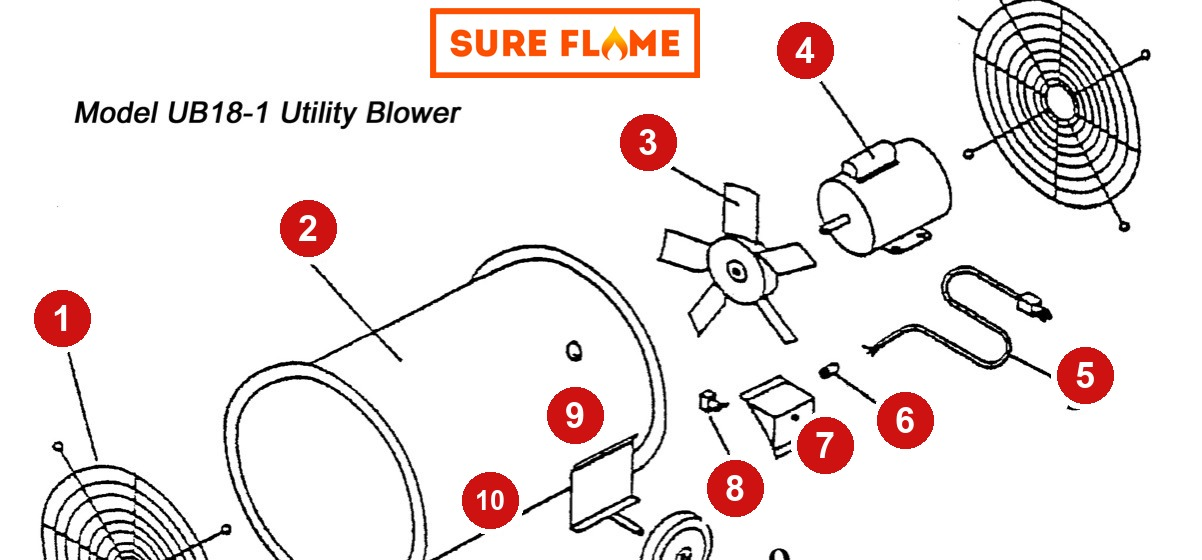
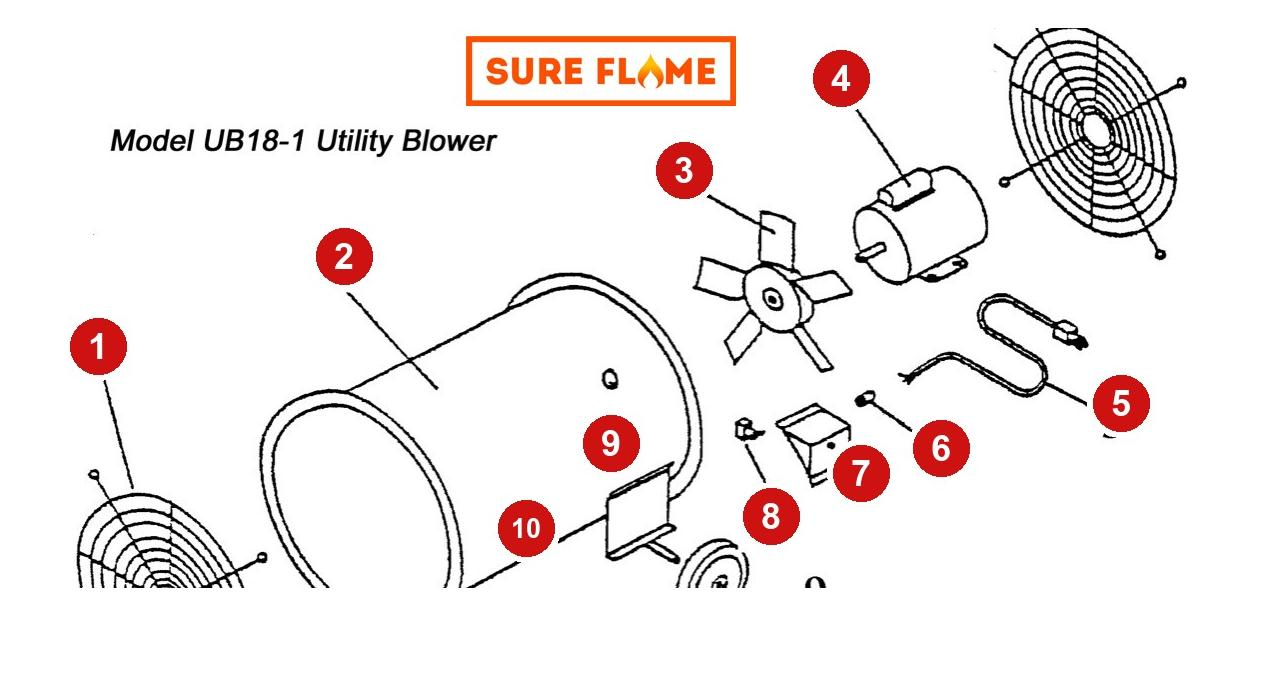
Sure Flame parts: pad FN20 & UB18 diagrams (stopgap for tight bottom crop)
The FN20 and UB18 parts diagrams were tight-cropped at the bottom (source
images cut off the lower grille / caster). Added white padding (matched bg,
bottom-weighted) so the drawings aren't jammed against the card edge and read
as intentional margin. Callouts all remain visible. Bumped ?v=3 -> ?v=4.

Not a true fix — the source art is still cropped. Full-size FN20/UB18 parts
drawings are on the Mike list; drop-in swap when they arrive.

Changed region(s): [[0.0308, 0.0, 0.9542, 1.0], [0.0308, 0.4554, 0.1231, 0.6375]]

diff --git a/project/website/sure-flame-ub18-parts.html b/project/website/sure-flame-ub18-parts.html
@@ -33,7 +33,7 @@ window.MODEL = {
   hero:A+"/sf-heaters/ub18.jpg", heroContain:true,
   crumb:[["Home","index.html"],["Parts","parts.html"],["Sure Flame Factory Parts","sure-flame-parts.html"]],
   groups:[
-    { id:"ub18", name:"UB18-1 Parts", diagram:A+"/sf-diagrams/ub18.jpg?v=3", cap:"UB18-1 Parts", parts:[
+    { id:"ub18", name:"UB18-1 Parts", diagram:A+"/sf-diagrams/ub18.jpg?v=4", cap:"UB18-1 Parts", parts:[
       { no:1, pn:"SFP FS6611", d:"Fan Guard", price:null },
       { no:2, pn:"UB-1708", d:"Housing Assembly w/o Wheels", price:null },
       { no:3, pn:"SFP FS6609", d:"Fan blade", price:null },

diff --git a/project/website/sure-flame-fn20-parts.html b/project/website/sure-flame-fn20-parts.html
@@ -33,7 +33,7 @@ window.MODEL = {
   hero:A+"/sf-heaters/fn20.jpg", heroContain:true,
   crumb:[["Home","index.html"],["Parts","parts.html"],["Sure Flame Factory Parts","sure-flame-parts.html"]],
   groups:[
-    { id:"fn20", name:"FN20 Parts", diagram:A+"/sf-diagrams/fn20.jpg?v=3", cap:"FN20 Parts", parts:[
+    { id:"fn20", name:"FN20 Parts", diagram:A+"/sf-diagrams/fn20.jpg?v=4", cap:"FN20 Parts", parts:[
       { no:1, pn:"SFP FN2051", d:"Fan Guard", price:232.59 },
       { no:2, pn:"SFP FN2054", d:"Fan Housing", price:558.35 },
       { no:3, pn:"SFP FS2422", d:"20\u201d Fan Blade", price:171.45 },

diff --git a/project/website/sure-flame-ub18.html b/project/website/sure-flame-ub18.html
@@ -124,7 +124,7 @@ function App(){
         </div>
 
         <div className="iw-parts">
-          <div className="thumb"><img src={A+"/sf-diagrams/ub18.jpg"} alt="Sure Flame UB18 utility blower parts diagram"/></div>
+          <div className="thumb"><img src={A+"/sf-diagrams/ub18.jpg?v=4"} alt="Sure Flame UB18 utility blower parts diagram"/></div>
           <div className="m">
             <span className="eb">Genuine Factory Parts</span>
             <b>Replacement parts for the UB18 are in stock.</b>

diff --git a/project/website/sure-flame-fn20.html b/project/website/sure-flame-fn20.html
@@ -122,7 +122,7 @@ function App(){
         </div>
 
         <div className="iw-parts">
-          <div className="thumb"><img src={A+"/sf-diagrams/fn20.jpg"} alt="Sure Flame FN20 floor fan parts diagram"/></div>
+          <div className="thumb"><img src={A+"/sf-diagrams/fn20.jpg?v=4"} alt="Sure Flame FN20 floor fan parts diagram"/></div>
           <div className="m">
             <span className="eb">Genuine Factory Parts</span>
             <b>Replacement parts for the FN20 are in stock.</b>
